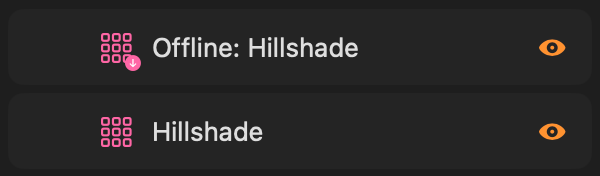
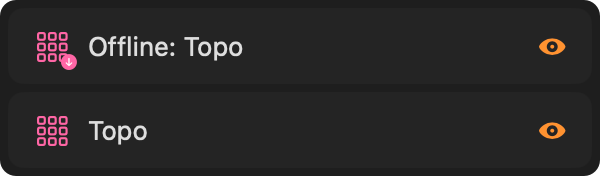
Manual 1.2: tile layers from a public topographic service over Mount St. Helens on the Mac
The Add Tile Layer sheet on both tabs with a real address, the topo layer
drawn over the crater, the download sheet and the Offline: Topo rows, the row
menu and the Edit Tile Layer popover. The 1.1 WMS frame is removed.

diff --git a/src/content/docs/manual/tile-layers.md b/src/content/docs/manual/tile-layers.md
@@ -4,6 +4,10 @@ description: "Add XYZ and WMS tile layers and download regions for offline use."
 ---
 A tile layer is a map streamed from a server. TopoKit fetches only the tiles for the area on screen.
 
+:::mac
+![A topographic tile layer drawn over Mount St. Helens on a Mac: the crater and its contour lines fill the map, and the layer's row, named Topo, sits at the top of the Layers panel](../../../assets/manual/tile-layers-on-the-map-mac.png)
+:::
+
 TopoKit ships no tile sources: you paste the address of a service you choose. For a topographic map without a source of your own, :ui[Basemaps] in the tool sidebar [builds one](/manual/basemaps/#building-a-basemap).
 
 ## Finding a tile source
@@ -49,7 +53,7 @@ The sheet shows no preview and accepts any text as a template, so a wrong addres
 :::
 
 :::mac
-![The Add Tile Layer sheet on Mac on the XYZ Tiles tab: the Layer Name field, the Tile URL Template field with an address typed in, the hint line about {z}, {x}, {y} and {-y}, Save URL, and Cancel and Add](../../../assets/manual/tile-layers-adding-an-xyz-tile-layer-sheet-mac.png)
+![The Add Tile Layer sheet on Mac on the XYZ Tiles tab: a saved source listed under Saved Sources, the Layer Name field reading Topo, the Tile URL Template field with a public topographic map service's address typed in, its tail showing the {z}/{y}/{x} order, the hint line about the placeholders, Save URL, and Cancel and Add](../../../assets/manual/tile-layers-adding-an-xyz-tile-layer-sheet-mac.png)
 :::
 ::::
 
@@ -62,7 +66,7 @@ For a TMS server, which counts rows from the south, write `{-y}` in place of `{y
 
 ### Adding a WMS layer
 
-![The Add Tile Layer sheet on the WMS Service tab after connecting, listing the service's layers under a Filter field, one layer selected](../../../assets/manual/tile-layers-adding-a-wms-layer-mac.png)
+![The Add Tile Layer sheet on Mac on the WMS Service tab after Connect: the service's address in the field, its one layer listed under a Filter field and selected, the Layer Name filled in from it, Format PNG, Transparent ticked, Save URL, and Cancel and Add](../../../assets/manual/tile-layers-adding-a-wms-layer-sheet-mac.png)
 
 1. Select **WMS Service** and paste the service address. A bare endpoint gets the GetCapabilities request added; an address that already carries `SERVICE` and `REQUEST` is used as is.
 2. Tap **Connect**. TopoKit reads WMS 1.1.1 and 1.3.0 capabilities, nested layers included. `WMS server error: HTTP 401` or `HTTP 403` under the field means the server wants a login.
@@ -85,7 +89,12 @@ Saved sources are kept on the device, not in the project, so every project on th
 
 ## Managing tile layers
 
-**Edit** in the row's :ui[Layer options]{icon=ellipsis} menu, or its right-click menu on Mac, opens the tile layer's editor. :mac[On Mac, **Layer → Edit Layer…** (`Cmd-I`) opens it too.] The editor changes the name and the opacity, nothing else. :ios[On iPhone, tap **Save** to keep a new name; leaving without saving keeps the opacity but not the name.] :mac[On Mac the editor is a popover that keeps the new name when it closes.]
+**Edit** in the row's :ui[Layer options]{icon=ellipsis} menu, or its right-click menu on Mac, opens the tile layer's editor. :mac[On Mac, **Layer → Edit Layer…** (`Cmd-I`) opens it too.] The editor changes the name and the opacity, nothing else.
+
+:::mac
+![The Edit Tile Layer popover on Mac: the name field reading Topo, the Opacity slider at 100%, and the Source URL with its copy button](../../../assets/manual/tile-layers-editing-a-tile-layer-popover-mac.png)
+:::
+ :ios[On iPhone, tap **Save** to keep a new name; leaving without saving keeps the opacity but not the name.] :mac[On Mac the editor is a popover that keeps the new name when it closes.]
 
 ::::platforms
 :::ios
@@ -93,7 +102,7 @@ Saved sources are kept on the device, not in the project, so every project on th
 :::
 
 :::mac
-![The right-click menu on a tile layer's row on Mac: Edit, Hide and Zoom to, Move to and New Folder with, Copy and Duplicate, Download for Offline and Remove Offline Tiles, and Delete](../../../assets/manual/tile-layers-managing-tile-layers-menu-mac.png)
+![The right-click menu on the Topo row on Mac: Edit, Hide and Zoom to, Move to and New Folder with “Topo”, Copy and Duplicate, Download for Offline and Remove Offline Tiles, and Delete](../../../assets/manual/tile-layers-managing-tile-layers-menu-mac.png)
 :::
 ::::
 
@@ -115,7 +124,7 @@ A download saves a layer's tiles to this device, so the layer draws without a co
 :::
 
 :::mac
-![The download sheet on Mac after Map View: the Tile Layer row, the Region row with Map View chosen and the corners' coordinates, Download Mode, the Max Zoom Level slider at z16, the Tiles and Storage cards, Has offline tiles, and Cancel and Download](../../../assets/manual/tile-layers-starting-a-download-sheet-mac.png)
+![The download sheet on Mac: Tile Layer reading Topo, Region with Map View chosen and the corners' coordinates round Mount St. Helens, Download Mode on All zoom levels, the Max Zoom Level slider at z14, the cards reading 111 Tiles and 1.7 MB Storage, and Cancel and Download](../../../assets/manual/tile-layers-starting-a-download-sheet-mac.png)
 :::
 ::::
 
@@ -157,7 +166,7 @@ The Mac has no cellular setting and downloads over any connection, a personal ho
 
 A finished download adds an **Offline: {layer name}** layer at the top of the source layer's folder. The next is **Offline: {layer name} (2)**, and so on; downloads never merge. Each reads only the downloaded tiles inside its own rectangle. Past the downloaded max zoom it scales up its sharpest tile.
 
-![Two rows at the top of the Layers panel on Mac: Offline: Hillshade, its tile icon badged with a download arrow, above the Hillshade tile layer it came from](../../../assets/manual/tile-layers-using-offline-tiles-panel-mac.png)
+![Two rows at the top of the Layers panel on Mac: Offline: Topo, its tile icon badged with a download arrow, above the Topo tile layer it came from](../../../assets/manual/tile-layers-using-offline-tiles-panel-mac.png)
 
 Downloaded tiles never sync. The project carries each download's rectangle and zoom range, so on another device the **Offline: …** layer is there without tiles. The **Layers** tab offers them in an **Offline tiles available** banner, and the layer's :ui[Layer options]{icon=ellipsis} menu has **Download for This Device**; either fetches the same rectangle and zooms again on that device. Built basemaps follow their own rule ([Other projects and other devices](/manual/basemaps/#other-projects-and-other-devices)).
 
